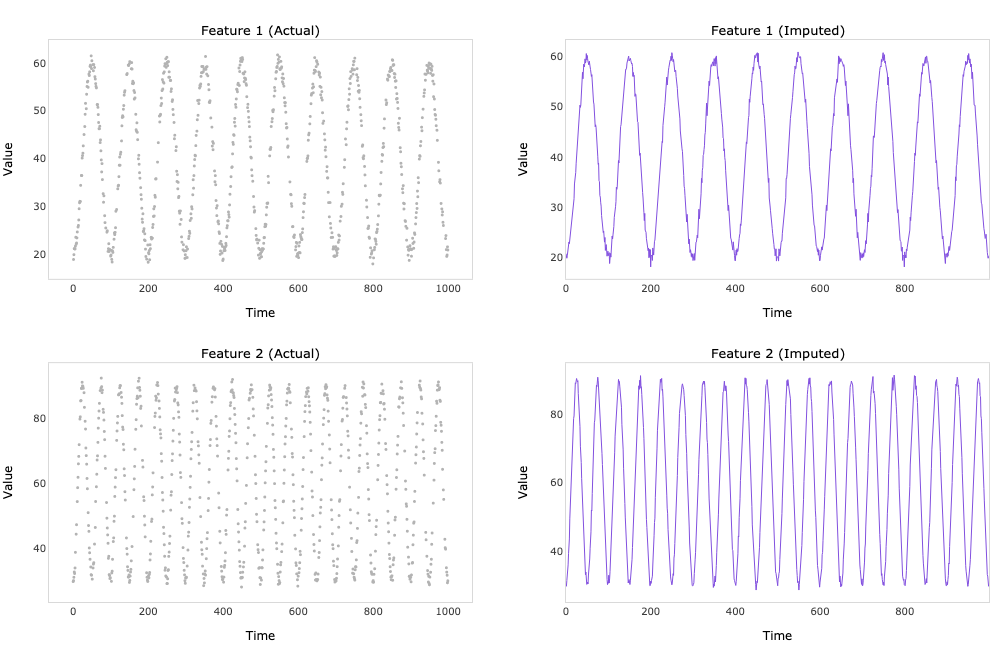
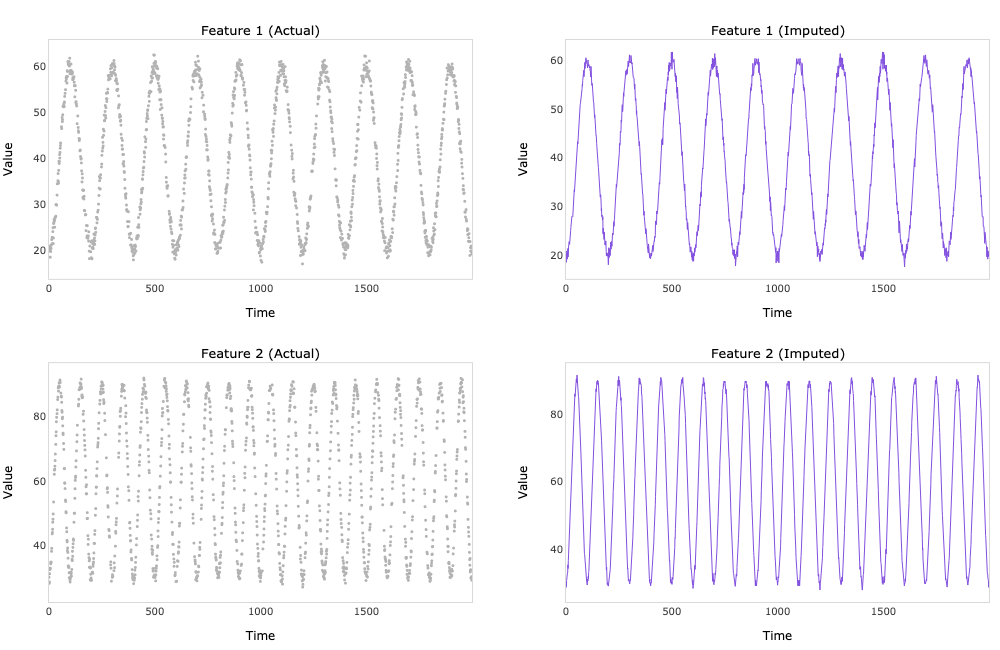
Initial commit

diff --git a/brits_tensorflow/plots.py b/brits_tensorflow/plots.py
@@ -17,8 +17,8 @@ def plot(actual, imputations):
     Returns:
     __________________________________
     fig: go.Figure.
-        Line chart of actual and imputed time series,
-        one subplot for each time series.
+        Plots of actual and imputed time series,
+        two subplots for each time series.
     '''
     
     if actual.shape[1] == imputations.shape[1]:
@@ -86,6 +86,7 @@ def plot(actual, imputations):
         
         fig.update_xaxes(
             title='Time',
+            range=[actual.index.min(), actual.index.max()],
             color='#000000',
             tickfont=dict(
                 color='#3a3a3a',
@@ -96,7 +97,21 @@ def plot(actual, imputations):
             row=i + 1,
             col=1
         )
-
+        
+        fig.update_xaxes(
+            title='Time',
+            range=[imputations.index.min(), imputations.index.max()],
+            color='#000000',
+            tickfont=dict(
+                color='#3a3a3a',
+            ),
+            linecolor='#d9d9d9',
+            mirror=True,
+            showgrid=False,
+            row=i + 1,
+            col=2
+        )
+        
         fig.update_yaxes(
             title='Value',
             color='#000000',
@@ -109,19 +124,6 @@ def plot(actual, imputations):
             zeroline=False,
             row=i + 1,
             col=1
-        )
-        
-        fig.update_xaxes(
-            title='Time',
-            color='#000000',
-            tickfont=dict(
-                color='#3a3a3a',
-            ),
-            linecolor='#d9d9d9',
-            mirror=True,
-            showgrid=False,
-            row=i + 1,
-            col=2
         )
 
         fig.update_yaxes(

diff --git a/example/example.py b/example/example.py
@@ -2,7 +2,7 @@ import numpy as np
 from brits_tensorflow.model import BRITS
 
 # Generate two time series
-N = 1000
+N = 2000
 t = np.linspace(0, 1, N)
 e = np.random.multivariate_normal(mean=np.zeros(2), cov=np.eye(2), size=N)
 a = 40 + 20 * np.cos(2 * np.pi * (10 * t - 0.5)) + e[:, 0]
@@ -10,20 +10,20 @@ b = 60 + 30 * np.cos(2 * np.pi * (20 * t - 0.5)) + e[:, 1]
 x = np.hstack([a.reshape(- 1, 1), b.reshape(- 1, 1)])
 
 # Add some missing values
-x[np.random.randint(low=0, high=N, size=int(0.2 * N)), 0] = np.nan
-x[np.random.randint(low=0, high=N, size=int(0.2 * N)), 1] = np.nan
+x[np.random.randint(low=0, high=N, size=int(0.3 * N)), 0] = np.nan
+x[np.random.randint(low=0, high=N, size=int(0.3 * N)), 1] = np.nan
 
 # Fit the model
 model = BRITS(
     x=x,
     units=100,
-    timesteps=100
+    timesteps=200
 )
 
 model.fit(
-    learning_rate=0.0001,
-    batch_size=4,
-    epochs=100,
+    learning_rate=0.001,
+    batch_size=16,
+    epochs=200,
     verbose=True
 )
 

diff --git a/brits_tensorflow/modules.py b/brits_tensorflow/modules.py
@@ -71,7 +71,7 @@ class TemporalDecay(tf.keras.layers.Layer):
         __________________________________
         tf.Tensor.
             Temporal decay, tensor with shape (samples, units) where samples is the
-            batch size and units is the number of hidden units of the LSTM cell.
+            batch size and units is the number of hidden units of the recurrent layer.
         '''
         
         return tf.exp(- tf.nn.relu(tf.matmul(inputs, self.w) + self.b))

diff --git a/README.MD b/README.MD
@@ -5,7 +5,8 @@
 
 TensorFlow implementation of multivariate time series imputation model introduced in Cao, W., Wang, D., Li, J.,
 Zhou, H., Li, L. and Li, Y., 2018. BRITS: Bidirectional recurrent imputation for time series.
-*Advances in neural information processing systems*, 31.
+*Advances in neural information processing systems*, 31. 
+[NeurIPS:734e6bfcd358e25ac1db0a4241b95651](https://proceedings.neurips.cc/paper/2018/file/734e6bfcd358e25ac1db0a4241b95651-Paper.pdf)
 
 ## Dependencies
 ```bash
@@ -21,7 +22,7 @@ import numpy as np
 from brits_tensorflow.model import BRITS
 
 # Generate two time series
-N = 1000
+N = 2000
 t = np.linspace(0, 1, N)
 e = np.random.multivariate_normal(mean=np.zeros(2), cov=np.eye(2), size=N)
 a = 40 + 20 * np.cos(2 * np.pi * (10 * t - 0.5)) + e[:, 0]
@@ -29,20 +30,20 @@ b = 60 + 30 * np.cos(2 * np.pi * (20 * t - 0.5)) + e[:, 1]
 x = np.hstack([a.reshape(- 1, 1), b.reshape(- 1, 1)])
 
 # Add some missing values
-x[np.random.randint(low=0, high=N, size=int(0.2 * N)), 0] = np.nan
-x[np.random.randint(low=0, high=N, size=int(0.2 * N)), 1] = np.nan
+x[np.random.randint(low=0, high=N, size=int(0.3 * N)), 0] = np.nan
+x[np.random.randint(low=0, high=N, size=int(0.3 * N)), 1] = np.nan
 
 # Fit the model
 model = BRITS(
     x=x,
     units=100,
-    timesteps=100
+    timesteps=200
 )
 
 model.fit(
-    learning_rate=0.0001,
-    batch_size=4,
-    epochs=100,
+    learning_rate=0.001,
+    batch_size=16,
+    epochs=200,
     verbose=True
 )
 
